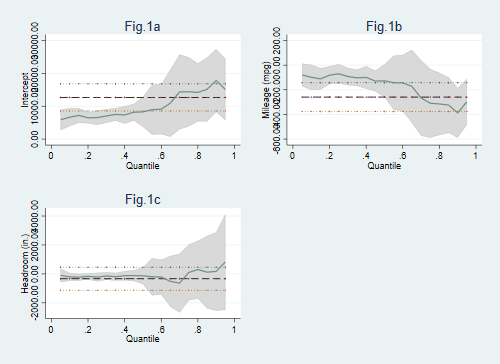
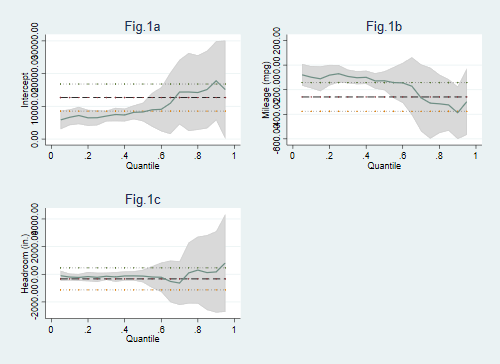
update

diff --git a/doc/grqreg.md b/doc/grqreg.md
@@ -106,9 +106,9 @@ Median regression, bootstrap(100) SEs               Number of obs =         74
 ------------------------------------------------------------------------------
        price |      Coef.   Std. Err.      t    P&gt;|t|     [95% Conf. Interval]
 -------------+----------------------------------------------------------------
-         mpg |  -127.3333   64.37143    -1.98   0.052    -255.6863    1.019661
-    headroom |  -130.6667   268.1515    -0.49   0.628    -665.3457    404.0123
-       _cons |   8272.333   2165.832     3.82   0.000     3953.787    12590.88
+         mpg |  -127.3333   33.86539    -3.76   0.000     -194.859   -59.80767
+    headroom |  -130.6667   214.2159    -0.61   0.544    -557.8011    296.4677
+       _cons |   8272.333   1146.927     7.21   0.000     5985.426    10559.24
 ------------------------------------------------------------------------------
 
 . grqreg, cons ci ols olsci title(Fig.1a Fig.1b Fig.1c)
@@ -141,22 +141,22 @@ Simultaneous quantile regression                    Number of obs =         74
        price |      Coef.   Std. Err.      t    P&gt;|t|     [95% Conf. Interval]
 -------------+----------------------------------------------------------------
 q25          |
-      weight |   1.831789   1.368944     1.34   0.185    -.8984846    4.562062
-      length |    2.84556   28.84499     0.10   0.922    -54.68396    60.37508
-     foreign |   2209.925   992.3935     2.23   0.029     230.6589    4189.192
-       _cons |  -1879.775   2804.829    -0.67   0.505     -7473.83    3714.281
+      weight |   1.831789   1.378948     1.33   0.188    -.9184371    4.582015
+      length |    2.84556   29.66665     0.10   0.924     -56.3227    62.01382
+     foreign |   2209.925   986.5676     2.24   0.028     242.2783    4177.572
+       _cons |  -1879.775   2958.039    -0.64   0.527    -7779.398    4019.849
 -------------+----------------------------------------------------------------
 q50          |
-      weight |   3.933588   2.718706     1.45   0.152      -1.4887    9.355876
-      length |  -41.25191   69.46919    -0.59   0.555    -179.8038    97.30003
-     foreign |   3377.771   1155.879     2.92   0.005     1072.443    5683.099
-       _cons |   344.6489   5758.657     0.06   0.952    -11140.63    11829.93
+      weight |   3.933588   2.665072     1.48   0.144     -1.38173    9.248905
+      length |  -41.25191   70.74429    -0.58   0.562    -182.3469    99.84313
+     foreign |   3377.771   1077.187     3.14   0.003     1229.389    5526.153
+       _cons |   344.6489   6229.776     0.06   0.956    -12080.25    12769.54
 -------------+----------------------------------------------------------------
 q75          |
-      weight |    9.22291   2.363416     3.90   0.000     4.509226    13.93659
-      length |  -220.7833   80.89277    -2.73   0.008    -382.1188   -59.44774
-     foreign |   3595.133   1181.479     3.04   0.003     1238.747    5951.519
-       _cons |    20242.9   8957.372     2.26   0.027     2377.989    38107.82
+      weight |    9.22291   2.613105     3.53   0.001     4.011236    14.43458
+      length |  -220.7833   90.66347    -2.44   0.017    -401.6059   -39.96068
+     foreign |   3595.133   1084.148     3.32   0.001     1432.868    5757.399
+       _cons |    20242.9   9775.516     2.07   0.042     746.2526    39739.56
 ------------------------------------------------------------------------------
 
 . grqreg, ci ols olsci title(Fig.1a Fig.1b Fig.1c)
@@ -191,28 +191,28 @@ Simultaneous quantile regression                    Number of obs =         74
        price |      Coef.   Std. Err.      t    P&gt;|t|     [95% Conf. Interval]
 -------------+----------------------------------------------------------------
 q20          |
-      weight |   1.843421   .9457788     1.95   0.055    -.0428753    3.729717
-      length |  -10.79474   24.02963    -0.45   0.655    -58.72033    37.13086
-     foreign |   1666.437   956.5004     1.74   0.086    -241.2431    3574.117
-       _cons |   441.0289   3212.624     0.14   0.891    -5966.348    6848.406
+      weight |   1.843421   1.055356     1.75   0.085    -.2614211    3.948263
+      length |  -10.79474   21.99454    -0.49   0.625    -54.66146    33.07199
+     foreign |   1666.437   958.6592     1.74   0.087    -245.5486    3578.422
+       _cons |   441.0289   2663.243     0.17   0.869    -4870.641    5752.699
 -------------+----------------------------------------------------------------
 q40          |
-      weight |   1.893098   1.889868     1.00   0.320    -1.876124     5.66232
-      length |   7.228114   44.11411     0.16   0.870    -80.75471    95.21094
-     foreign |   2676.242   1052.317     2.54   0.013     577.4613    4775.022
-       _cons |  -2753.278   3550.368    -0.78   0.441    -9834.263    4327.707
+      weight |   1.893098   2.372783     0.80   0.428    -2.839269    6.625464
+      length |   7.228114    58.5159     0.12   0.902    -109.4782    123.9344
+     foreign |   2676.242    1037.78     2.58   0.012     606.4553    4746.028
+       _cons |  -2753.278   4466.547    -0.62   0.540    -11661.52    6154.969
 -------------+----------------------------------------------------------------
 q60          |
-      weight |   5.975028    2.92722     2.04   0.045     .1368718    11.81319
-      length |  -100.1002   81.66473    -1.23   0.224    -262.9754    62.77498
-     foreign |   3730.962   1017.109     3.67   0.000     1702.403    5759.522
-       _cons |   5901.206   7395.089     0.80   0.428    -8847.834    20650.25
+      weight |   5.975028   2.965998     2.01   0.048     .0595326    11.89052
+      length |  -100.1002   83.91236    -1.19   0.237    -267.4581    67.25775
+     foreign |   3730.962   1236.752     3.02   0.004     1264.337    6197.587
+       _cons |   5901.206   7883.994     0.75   0.457    -9822.924    21625.34
 -------------+----------------------------------------------------------------
 q80          |
-      weight |   8.906373   2.030826     4.39   0.000     4.856018    12.95673
-      length |  -211.7601   72.78394    -2.91   0.005    -356.9231   -66.59709
-     foreign |   3995.263   1076.082     3.71   0.000     1849.085    6141.442
-       _cons |   19619.38   8057.916     2.43   0.017     3548.375    35690.39
+      weight |   8.906373   1.965148     4.53   0.000     4.987009    12.82574
+      length |  -211.7601   66.14028    -3.20   0.002    -343.6727   -79.84744
+     foreign |   3995.263   1034.912     3.86   0.000     1931.197     6059.33
+       _cons |   19619.38   7098.527     2.76   0.007     5461.817    33776.95
 ------------------------------------------------------------------------------
 
 . grqreg, cons
